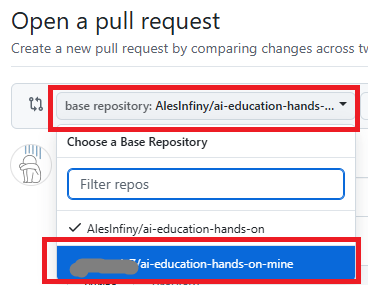
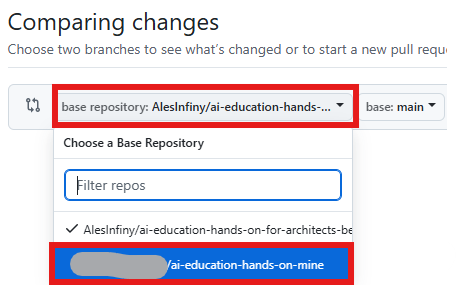
リポジトリ名の影響を受けるファイル、画像を修正 (#18)

diff --git a/appendix/99.how-to-fork-repository-and-create-pull-request.md b/appendix/99.how-to-fork-repository-and-create-pull-request.md
@@ -6,7 +6,7 @@
 
 ## リポジトリのフォーク
 
-1. ブラウザーで [ai-education-hands-on](https://github.com/AlesInfiny/ai-education-hands-on) にアクセスし、リポジトリ名（ ai-education-hands-on ）右側の "Fork" 横の矢印を展開し、 "Create a new fork" を選択します。
+1. ブラウザーで [ai-education-hands-on-for-architects-beginner](https://github.com/AlesInfiny/ai-education-hands-on-for-architects-beginner) にアクセスし、リポジトリ名（ ai-education-hands-on-for-architects-beginner ）右側の "Fork" 横の矢印を展開し、 "Create a new fork" を選択します。
 
     ![Fork の作成 1](./images/github-fork.png)
 
